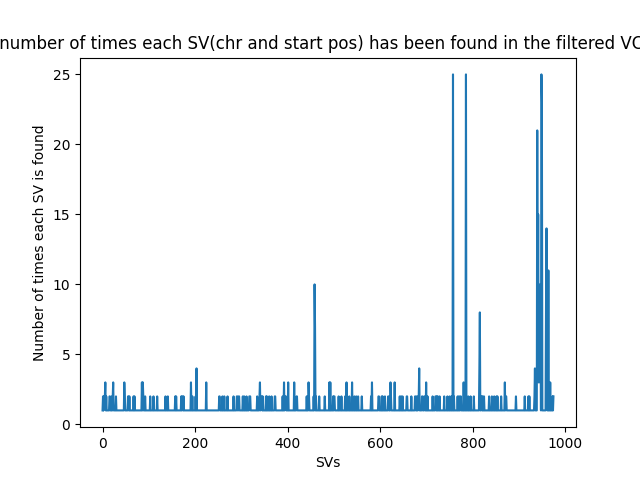
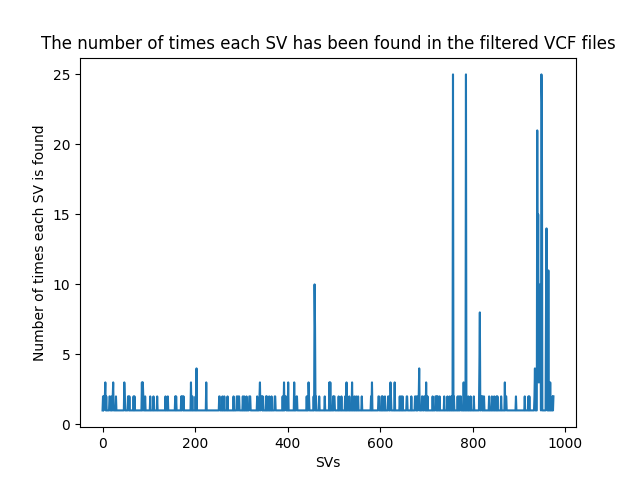
Change figure title and file name

Changed region(s): [[0.0, 0.0625, 1.0, 0.125]]

diff --git a/SVs_identification/scripts/python/investigate_top_svs.py b/SVs_identification/scripts/python/investigate_top_svs.py
@@ -22,8 +22,6 @@ for i in range(len(vcf_files)):
     genome_names.append(genome_name)
     vcf[genome_name] = precise
 
-# print(functions.get_genome_name(vcf_files[0]))
-# print(vcf[functions.get_genome_name(vcf_files[0])].columns)
 
 # Seperate the genomes
 genomes = top_svs['GENOMES'].str.split(';', expand=True)
@@ -40,20 +38,29 @@ for i in range(len(genome_names)):
             genome_dict[genome_names[i]] = False
     genome_dict_list.append(genome_dict)
 # Choose one location and one genome to go forward with
-df1 = vcf['BTA127_L4_SV']
+# df1 = vcf['BTA127_L4_SV']
+dfs = []
+joined = top_svs.copy()
+for i in range(len(genome_names)):
+    df1 = vcf[genome_names[i]]
+    df1_split = df1['INFO'].str.split(';', expand=True)
+    # Remove precise column since it is already in the previous data frame
+    df1_split = df1_split.iloc[:, 1:17]
+    df1_split.columns = ['SVTYPE', 'SVMETHOD', 'CHR2', 'END', 'PE', 'MAPQ', 'CT', 'CIPOS', 'CIEND', 'SRMAPQ', 'INSLEN', 'HOMLEN', 'SR', 'SRQ', 'CONSENSUS', 'CE']
 
-df1_split = df1['INFO'].str.split(';', expand=True)
-# Remove precise column since it is already in the previous data frame
-df1_split = df1_split.iloc[:, 1:17]
-df1_split.columns = ['SVTYPE', 'SVMETHOD', 'CHR2', 'END', 'PE', 'MAPQ', 'CT', 'CIPOS', 'CIEND', 'SRMAPQ', 'INSLEN', 'HOMLEN', 'SR', 'SRQ', 'CONSENSUS', 'CE']
+    for row in range(len(df1_split)):
 
-for row in range(len(df1_split)):
+        for col in range(len(df1_split.columns)):
+            column = df1_split.iloc[row, col]
+            df1_split_col = column.split('=')
+            df1_split.iloc[row, col] = df1_split_col[1]
 
-    for col in range(len(df1_split.columns)):
-        column = df1_split.iloc[row, col]
-        df1_split_col = column.split('=')
-        df1_split.iloc[row, col] = df1_split_col[1]
+    df1 = df1.join(df1_split)
+    joined = joined.join(df1, rsuffix=genome_names[i])
+print(joined.iloc[0,:].to_string())
 
-df1 = df1.join(df1_split)
 
-print(df1.iloc[0,:])
+
+
+
+# GT: 0/1 = Heterozygot, 1/1 = Homozygot, 0/0 = HOMO_REF

diff --git a/SVs_identification/scripts/python/sum_all_vcf.py b/SVs_identification/scripts/python/sum_all_vcf.py
@@ -58,7 +58,7 @@ chr_pos_raw, num_raw = zip(*sorted_count_raw)
 plt.plot(num_raw)
 plt.xlabel('SVs')
 plt.ylabel('Number of times each SV is found')
-plt.title('The number of times each SV(chr and start pos) has been found in the raw VCF files')
+plt.title('The number of times each SV has been found in the raw VCF files')
 plt.savefig("counted_nonfiltered_svs.png")
 
 plt.figure(4)
@@ -68,7 +68,7 @@ chr_pos_filt, num_filt = zip(*sorted_count_filt)
 plt.plot(num_filt)
 plt.xlabel('SVs')
 plt.ylabel('Number of times each SV is found')
-plt.title('The number of times each SV(chr and start pos) has been found in the filtered VCF files')
+plt.title('The number of times each SV has been found in the filtered VCF files')
 plt.savefig("counted_filtered_svs.png")
 
 top_svs = {k: v for (k, v) in count_filt.items() if v > 10}
